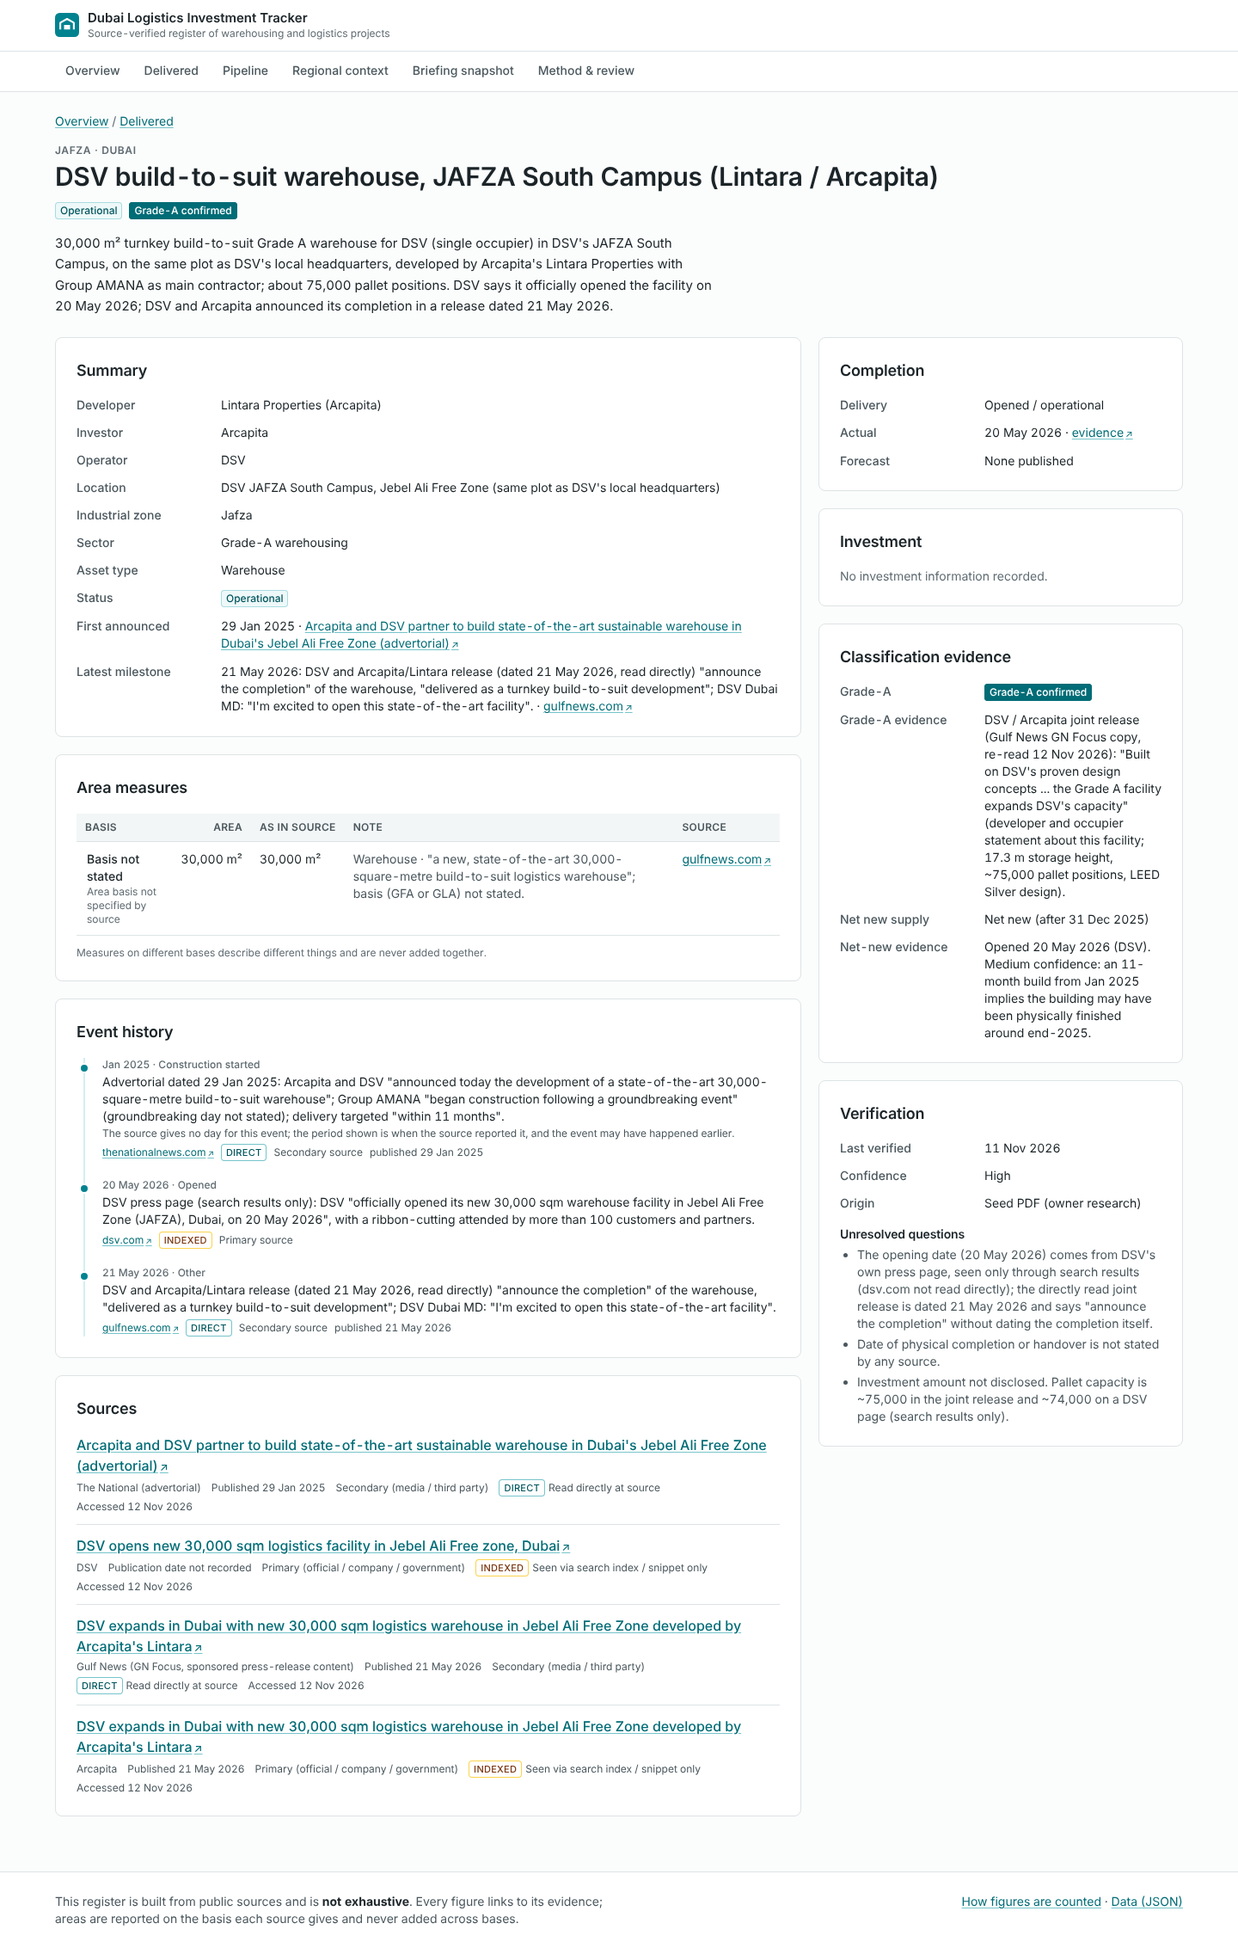
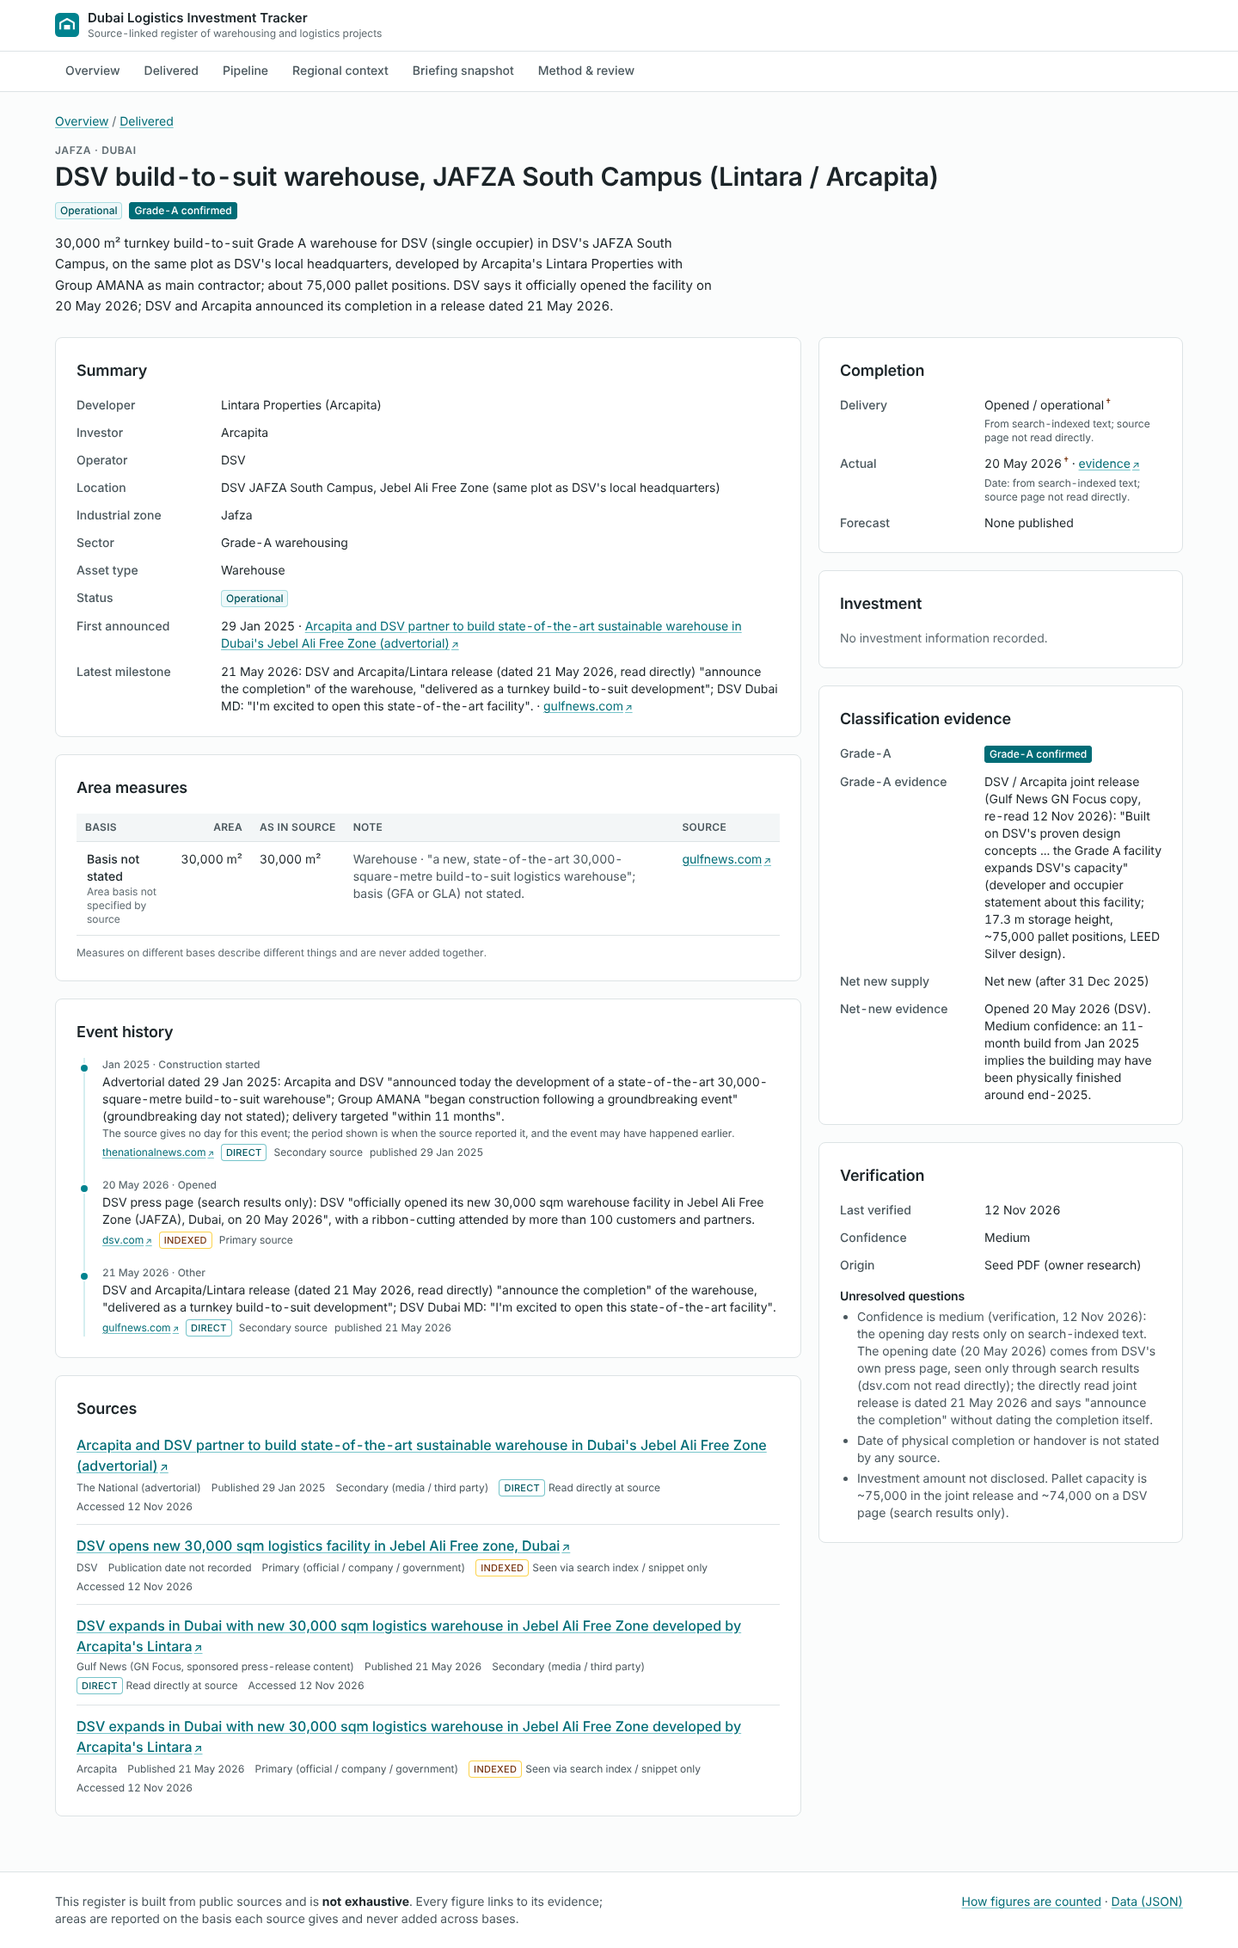
Retake the screenshots and record the second verification round
All docs/screenshots/real-* images retaken after the fixes; the
verification report and the consistency-repair notes describe the final
rendered headline, support lines, markers, totals and what remains
unverified; the audit notes that lastVerified is now derived.

Claude-Session: https://claude.ai/code/session_01DHQuftxitp1NAaoxVPoTCr

diff --git a/docs/VERIFICATION_2026-11.md b/docs/VERIFICATION_2026-11.md
@@ -1,8 +1,29 @@
 # Independent verification of the consistency repair (12 November 2026)
 
 Step 3 of 3. Branch `consistency-repair`, starting at `02f74ac` (audit
-`a8485e6` + rebuild `02f74ac`); fixes in `167f964`. `main` was not touched
-(still `ed1f809`). Nothing was deployed, published or merged; no workflow was
+`a8485e6` + rebuild `02f74ac`); first fixes in `167f964`, report `f7d7488`;
+second round of fixes (the items first reported as "not fixed") in `6fe0a6e`
+and `c85010c`; screenshots and docs in the commit that updates this file.
+`main` was not touched (still `ed1f809`).
+
+## Final state as rendered (Overview, 2026)
+
+* Headline: "In 2026, 11 logistics facilities opened in Dubai and 3 more
+  completed construction."
+* Tiles: Opened / operational 11 · Construction completed 3 · Warehouse space
+  facilities 10 · Other logistics infrastructure 4.
+* Support line: "Of the 11 opened, 7 are warehouse facilities and 4 other
+  logistics infrastructure. The 3 construction-completed are all warehouse
+  facilities. 2 of the 11 openings rest on search-indexed evidence for the
+  status or date (source page not read directly)."
+* Area line: "9 of the 10 warehouse facilities disclosed an area: 26,013 m²
+  GFA · 20,000 m² GLA · 10,405 m² Built-up (mixed use) · 204,174 m² Basis not
+  stated. Each basis is a separate figure; they are never added together."
+* Snapshot: same headline; columns "Companies · Facility · Location ·
+  Delivery · Area, m² (basis) · Date"; DSV "Opened / operational† … 20 May
+  2026†", CEVA "Opened / operational† … Jan 2026*†"; legend "† From
+  search-indexed text; source page not read directly."; footer "Sources last
+  checked 12 Nov 2026". Nothing was deployed, published or merged; no workflow was
 triggered and no Anthropic API call was made.
 
 Method: every check below was run by the verifier, not taken from
@@ -22,6 +43,18 @@ lived in the session scratchpad, not in the repo.
 | G. Leftovers | Yes (`src/`, `shared/`, `data/`, `docs/`, `README.md`, `CLAUDE.md`, `dist/`) | **Pass**, one stale line left in `CLAUDE.md` | "262,000", "261,600", "215,260", "81,500", "13 logistics", "completed one more", "differs from sources", "presentation" occur only in the docs that record the old → new changes, a regression test and a code comment. "multi-user" is used only for CEVA, Gallega and DHL, as their sources say. `CLAUDE.md` still lists `computePresentedTotals` (see below). Review queue: 14 open items incl. dnata and Emirates Snack Foods "operational?" conflicts; unresolved questions present for NIP phase 1 opening, Toll DC6 and Sky Support overdue completion, DHL groundbreaking, MOL term-sheet date. "Verified" wording fixed (see defects). |
 | H. Git, CI, deploy | Yes | See the end of this file | Working tree clean; branch pushed; CI on `02f74ac` and `a8485e6` green; no "Deploy to GitHub Pages" run has ever had `head_branch = consistency-repair`; `origin/main` = `ed1f809`. |
 
+### Re-run after the second round (tree of `c85010c` + screenshots/docs)
+
+| Check | Result | Evidence |
+|---|---|---|
+| A | **Pass** | `Tests 226 passed (226)`; `validate: 31 projects — 0 error(s), 7 warning(s), 0 notice(s)`; `✓ built in 2.34s`. |
+| B | **Pass**, no difference | Independent script unchanged: 14 delivered (11 opened, 3 completed); 26,012.85 GFA / 20,000 GLA / 10,405.14 built-up / 204,174.15 unstated; being built 81,000 GLA / 48,136.06 built-up / 101,230.91 unstated; AED 170 m delivered, EUR 120 m committed — equal to `computeMetrics` / `computeBriefing` and the pages. |
+| C | **Pass** | Rendered headline, tiles, support line and area line as quoted at the top; † appears only on DSV and CEVA (Delivered table, list view, project pages, snapshot) with its legend; no other row changed. |
+| E | **Pass** | 2 pages, 1152 × 648 pt; every row's area figure, basis tag, date, forecast, delivery label and Grade A tag and both slides' subtotals found in the PDF text; 5 † marks; no truncation; content ends above the footer on both slides. |
+| F | **Pass** | All routes load at 1440×900 and 390×844, no horizontal overflow, 0 console errors; nav and controls equal `main` except the Delivered table's "Delivery" column (from the first step); filters, sort, URL state, year selector work; CSV 31 rows × 63 columns, JSON 31 projects. |
+| G | **Pass** except `CLAUDE.md` | No "262,000", "261,600", "215,260", "81,500", "13 logistics", "completed one more", "Multiuser", "differs from sources", "Source-verified", "verified seed" or "As of" in `src/`, `shared/`, `data/`, `README.md`, `index.html` or `dist/` (only regression tests, the change-record docs and the source's own "results presentation" title). `CLAUDE.md` still names `computePresentedTotals` (item 7). |
+| H | see end of file | |
+
 ## Defects found
 
 | # | Defect | Conflicting values | Status |
@@ -34,15 +67,30 @@ lived in the session scratchpad, not in the repo.
 | 6 | "the register is the verified seed" (Overview) and "the data is the verified seed" (Method): 5 of the 29 counted projects have no directly read source. | "verified seed" vs data-quality panel "24 of 29" | Fixed `167f964` ("initial seed") |
 | 7 | `CLAUDE.md` project notes name `computePresentedTotals` (removed). | — | **Not fixed**: the verifier does not edit `CLAUDE.md` on another agent's instruction. One-line fix for the owner: replace `computePresentedTotals` with `computeBriefing` (`shared/briefing.ts`) and `shared/definitions.ts`. |
 
-## Not fixed (reported; larger than a targeted fix or a judgement for the owner)
+## Second round (`6fe0a6e`, `c85010c`): items first reported as not fixed
 
-* **Indexed-only evidence is visible only on project pages.** CEVA (opened; both sources indexed, confidence medium) and DSV's 20 May date (dsv.com, indexed) appear in the headline count, tables and snapshot as plain "Opened / operational" with no marker; the verification level and an unresolved question show on the project page. DSV's confidence is `high` although its opening date is indexed-only (its own net-new note says "medium confidence"). DSV's operational status is also supported directly ("I'm excited to open", completion release 21 May).
-* **"11 logistics facilities opened"** includes 4 non-warehouse assets (Petrochem terminal and HQ, Lufthansa Technik painting and grinding centre, MOSOLF vehicle hub, Al Awir container depot). The tiles beside it say 10 warehouse / 4 other infrastructure; the sentence itself does not.
-* **"Floor area" headings** remain on the snapshot column and the "Warehouse floor area by basis" subtotal although the basis-not-stated subtotals (204,174 / 101,231 m²) include figures that may be site or open storage (dnata, Gallega, Hellmann–INDU). MOSOLF's 14,957 m² site and Gargash's 232,258 m² plot appear, tagged "Site / land", in the snapshot's "Floor area, m² (basis)" column (text only, no bar, not subtotalled).
-* **Dates.** All records keep `lastVerified: 2026-11-11` and the snapshot says "As of 11 Nov 2026", though the sources were re-read on 12 Nov (the audit explains the seed test pins the date). Report-month dates are still stored as the event month, marked "may be earlier" everywhere; the event month itself is not known for most 2026 openings.
-* **Method page wording**: "Grade-A confirmed only when a source states the grade or its specification (for example clear height…)" is looser than the audit's rule (an explicit Grade A statement by the developer, owner or an official body). All confirmed records meet the stricter rule.
-* **Header tagline** "Source-verified register" (unchanged from `main`; design) while 5 counted projects rest on search results only.
-* Long descriptors and locations still end in an ellipsis on the slides (full text in the tooltip and on the tracker); screenshots in `docs/screenshots/` predate `167f964`.
+| # | Item | Now |
+|---|---|---|
+| 8 | Search-indexed delivery evidence was visible only on project pages; DSV confidence `high` | `indexedDeliveryEvidence` (shared/definitions.ts, from the events' and sources' `verification`) drives a † mark with the legend "From search-indexed text; source page not read directly." on the Delivered table, the list and regional tables (status and date columns), the project page and the snapshot; only DSV (status and date) and CEVA (status and date) carry it. The headline support line counts them ("2 of the 11 openings…"). DSV confidence is medium, with the reason as its first unresolved question. Tests: `shared/__tests__/definitions.test.ts`, `seed.test.ts`. |
+| 9 | "11 opened" could be read as 11 warehouses | Support line computed by `deliverySplitSentence`: 7 warehouse + 4 other logistics infrastructure; the 3 completed are all warehouse. |
+| 10 | "Floor area" headings over columns holding site and basis-not-stated figures | Snapshot "Area, m² (basis)", "Warehouse area by basis"; size filter "Development size (area)" / "Area not disclosed"; card empty state "No area disclosed". |
+| 11 | Method page Grade A rule looser than the audit's | `GRADE_A_RULE` in shared/definitions.ts, rendered on the method page; all confirmed records meet it. |
+| 12 | `lastVerified` 11 Nov everywhere; snapshot "As of 11 Nov 2026" | `lastVerified` = latest direct-read `accessedDate` (seed `lastDirectRead`): 12 Nov on 25 records, 11 Nov on the 6 resting only on search results (CEVA, Terralogix park and phase 1, Gallega vehicle hub, MOL, DHL) — matches the audit's D/I column. Seed validation and the seed test use 12 Nov. Snapshot footer: "Sources last checked 12 Nov 2026" (latest `lastVerified` of the rows shown). Data regenerated with `scripts/seed/build.ts` after confirming `data/changelog.json` has no changes and `data/pipeline-state.json` does not exist; only `data/register.json` changed (54 lines: `lastVerified`, DSV confidence and question). |
+| 13 | Tagline "Source-verified register" | "Source-linked register…" in the header, `index.html` meta description and README; footer and `<title>` made no such claim. |
+| 14 | Slide names ending in an ellipsis | Descriptors, locations and company chips wrap; nothing on either slide is truncated (DOM check: no element with clipped overflow except the screen-reader caption); both slides' content ends above the footer (739 / 737 px of 756 px in print). |
+| 15 | Screenshots out of date | All `docs/screenshots/real-*` retaken at 1440×900 and 390×844 (full page; error page with a 500 on `register.json`) and reviewed. |
+| 7 | `CLAUDE.md` names `computePresentedTotals` | **Still not fixed.** The conductor relayed authorisation, but the verifier does not edit `CLAUDE.md` on an agent message; the owner should make the edit (replace with `computeBriefing` in `shared/briefing.ts` and `shared/definitions.ts`, and add: "The site's headline, cards, tables and snapshot are computed from the register; never add project-specific wording or totals in `src/`."). |
+
+## Remaining (judgement for the owner)
+
+* Report-month dates are stored as the event month, marked "may be earlier"
+  everywhere; the event month itself is unknown for most 2026 openings.
+* "Basis not stated" subtotals (204,174 m² delivered, 101,231 m² being built)
+  may include site or open-storage area (dnata, Gallega, Hellmann–INDU); the
+  site says so but cannot resolve it.
+* The † mark covers delivery status and dates only; other indexed-only facts
+  (e.g. Aldar phase 2's 81,000 m² GLA, Terralogix's figures) are shown with
+  their verification level on the project page, not marked in tables.
 
 ## Could not verify
 
@@ -55,10 +103,12 @@ lived in the session scratchpad, not in the repo.
 Leadership can repeat each headline and briefing statement and find it, with
 the same number, date, status and basis, in the register: "In 2026, 11
 logistics facilities opened in Dubai and 3 more completed construction"; the
+split (7 warehouse, 4 other infrastructure; 3 completed, all warehouse); the
 per-basis subtotals (never added); DSV as a build-to-suit warehouse for DSV
-opened 20 May 2026; Aldar phase 2 as 81,000 m² GLA. Two caveats to say aloud:
-the 11 include 4 non-warehouse facilities, and two of the 11 (CEVA, and the
-DSV opening day) rest on search results rather than pages read directly.
+opened 20 May 2026; Aldar phase 2 as 81,000 m² GLA. The two caveats that used
+to need saying aloud (non-warehouse openings; CEVA and DSV's opening day on
+search-indexed evidence) are now stated on the page and marked † wherever
+those statuses and dates appear.
 
 ## H. Git and CI
 

diff --git a/docs/CONSISTENCY_REPAIR.md b/docs/CONSISTENCY_REPAIR.md
@@ -37,11 +37,11 @@ Design, navigation and features are unchanged; no projects were added.
 
 | Old briefing statement | Now (derived, as rendered) |
 |---|---|
-| "Dubai opened 13 logistics facilities and completed one more in 2026, with about 262,000 m² of floor space" | "In 2026, 11 logistics facilities opened in Dubai and 3 more completed construction." |
-| 261,600 m² floor space opened (cross-basis sum) | Warehouse floor area by basis, never added: **26,013 m² GFA · 20,000 m² GLA · 10,405 m² built-up (mixed use) · 204,174 m² basis not stated** — 9 of the 10 warehouse facilities disclosed one |
+| "Dubai opened 13 logistics facilities and completed one more in 2026, with about 262,000 m² of floor space" | "In 2026, 11 logistics facilities opened in Dubai and 3 more completed construction." Support line: "Of the 11 opened, 7 are warehouse facilities and 4 other logistics infrastructure. The 3 construction-completed are all warehouse facilities. 2 of the 11 openings rest on search-indexed evidence for the status or date (source page not read directly)." |
+| 261,600 m² floor space opened (cross-basis sum) | Warehouse area by basis, never added: **26,013 m² GFA · 20,000 m² GLA · 10,405 m² built-up (mixed use) · 204,174 m² basis not stated** — "9 of the 10 warehouse facilities disclosed an area" (basis-not-stated figures may include site or open-storage area) |
 | 215,260 m² being built | **81,000 m² GLA · 48,136 m² built-up (mixed use) · 101,231 m² basis not stated** (8 projects; Emirates complex and Sky Support are other infrastructure) |
 | 14 "openings" all counted as opened | 11 Opened / operational; 3 Construction completed (NIP phase 1, dnata, Emirates Snack Foods) |
-| DSV "Multiuser warehouse · 20 May" | "Build-to-suit warehouse for DSV" · 20 May 2026 · Opened / operational · 30,000 m² basis not stated |
+| DSV "Multiuser warehouse · 20 May" | "Build-to-suit warehouse for DSV" · 20 May 2026† · Opened / operational† · 30,000 m² basis not stated; confidence medium († = from search-indexed text; source page not read directly) |
 | NIP phase 2 "81,500 m²" | 81,000 m² GLA everywhere |
 | Palmon "10,400" | 10,405 m² built-up (mixed use); Grade A (probable) |
 | NIP phase 1 "67,000" | over 67,000 m², basis not stated; Q3 2026; construction completed |
@@ -49,6 +49,41 @@ Design, navigation and features are unchanged; no projects were added.
 | Al Awir "100,000 m² site" charted as yard | 100,000 m² basis not stated, shown as text; other logistics infrastructure; never floor space |
 | AED 300 m Petrochem, USD 5.1 bn Emirates, AED 150 m Talal, USD 11 m Palmon in investment views | Listed under "Not summed" with "More than the logistics facility"; facility-scope sums only (2026 delivered: AED 170 m = dnata + Al Sharqi) |
 | "Briefing differs from sources" badges, "Strictly, sources confirm only completion for 3", "floor space as reported", "Not counted (unconfirmed)" list, † footnotes | Removed. Toll DC6 and Sky Support appear under "Being built" with "Forecast … (date passed)"; DHL under signed/committed |
+
+## Final state after verification (12 November 2026)
+
+Verification (`docs/VERIFICATION_2026-11.md`) added, without changing any
+count or total:
+
+* **Search-indexed delivery evidence is marked everywhere.**
+  `indexedDeliveryEvidence` (`shared/definitions.ts`) flags a delivered record
+  whose status-supporting events, or whose `actualCompletion` source, were not
+  read directly. Every view that shows a delivery status or date (Delivered
+  table, project lists, Regional table, project page, snapshot) marks it with
+  † and the legend "From search-indexed text; source page not read directly."
+  In 2026: DSV (opening day) and CEVA (opening and date). DSV's confidence is
+  now medium.
+* **Headline support line** (`Briefing.deliverySplitSentence`): the
+  warehouse / other-infrastructure split of each delivery kind and the count
+  resting on search-indexed evidence.
+* **"Area", not "floor area"**, for the snapshot column and subtotals
+  ("Area, m² (basis)", "Warehouse area by basis"), because site and
+  basis-not-stated figures appear there.
+* **Dates.** A month or period taken from a report with no recorded
+  publication date is also marked "may be earlier" (CEVA, MOL); the "*" sits
+  after the milestone, not after a forecast. `lastVerified` is 12 Nov 2026 on
+  the 25 records with a source re-read directly that day and 11 Nov 2026 on
+  the 6 resting only on search results (CEVA, Terralogix park and phase 1,
+  Gallega vehicle hub, MOL, DHL). The snapshot footer says "Sources last
+  checked 12 Nov 2026" (latest `lastVerified` of the rows shown).
+* **Grade A rule** on the method page comes from `GRADE_A_RULE` in
+  `shared/definitions.ts` and matches the audit (confirmed only on the
+  developer's, owner's, occupier's or an official body's own statement for
+  this facility).
+* **Snapshot slides**: names wrap to two lines; no status, basis tag,
+  qualifier or date is truncated; both slides fit their 16:9 page in print.
+* Tagline "Source-linked register…" (header, meta description, README);
+  "verified seed" wording replaced by "initial seed".
 
 ## Definitions
 
@@ -94,5 +129,7 @@ Design, navigation and features are unchanged; no projects were added.
   on search results only; Toll DC6 and Sky Support completions are overdue and
   unconfirmed; the DHL groundbreaking and Gallega vehicle-hub go-live are
   unconfirmed.
-* `CLAUDE.md` (project notes) still names `computePresentedTotals`; it was not
-  edited here.
+* CEVA's opening and DSV's opening day rest on search-indexed text only
+  (marked †).
+* `CLAUDE.md` (project notes) still names `computePresentedTotals`; the
+  verifier did not edit it (it needs the owner's own edit).

diff --git a/docs/AUDIT_2026-11.md b/docs/AUDIT_2026-11.md
@@ -246,6 +246,8 @@ Item ids are content hashes, so reworded items have new ids.
 * `lastVerified` stays 2026-11-11 because the seed test validates with
   `today = '2026-11-11'`; sources re-read today carry `accessedDate:
   2026-11-12`. Bump both together when the test's date is updated.
+  (Superseded in verification: `lastVerified` is now 2026-11-12 on records
+  with a source re-read directly that day; see `docs/VERIFICATION_2026-11.md`.)
 * Investment bases now flag scope for aggregates: Petrochem (terminal + HQ +
   offices), Emirates (whole MRO complex), Talal (campus incl. HQ and retail),
   Palmon (includes land), Al Sharqi (whole hub), DHL (EUR, not converted).
